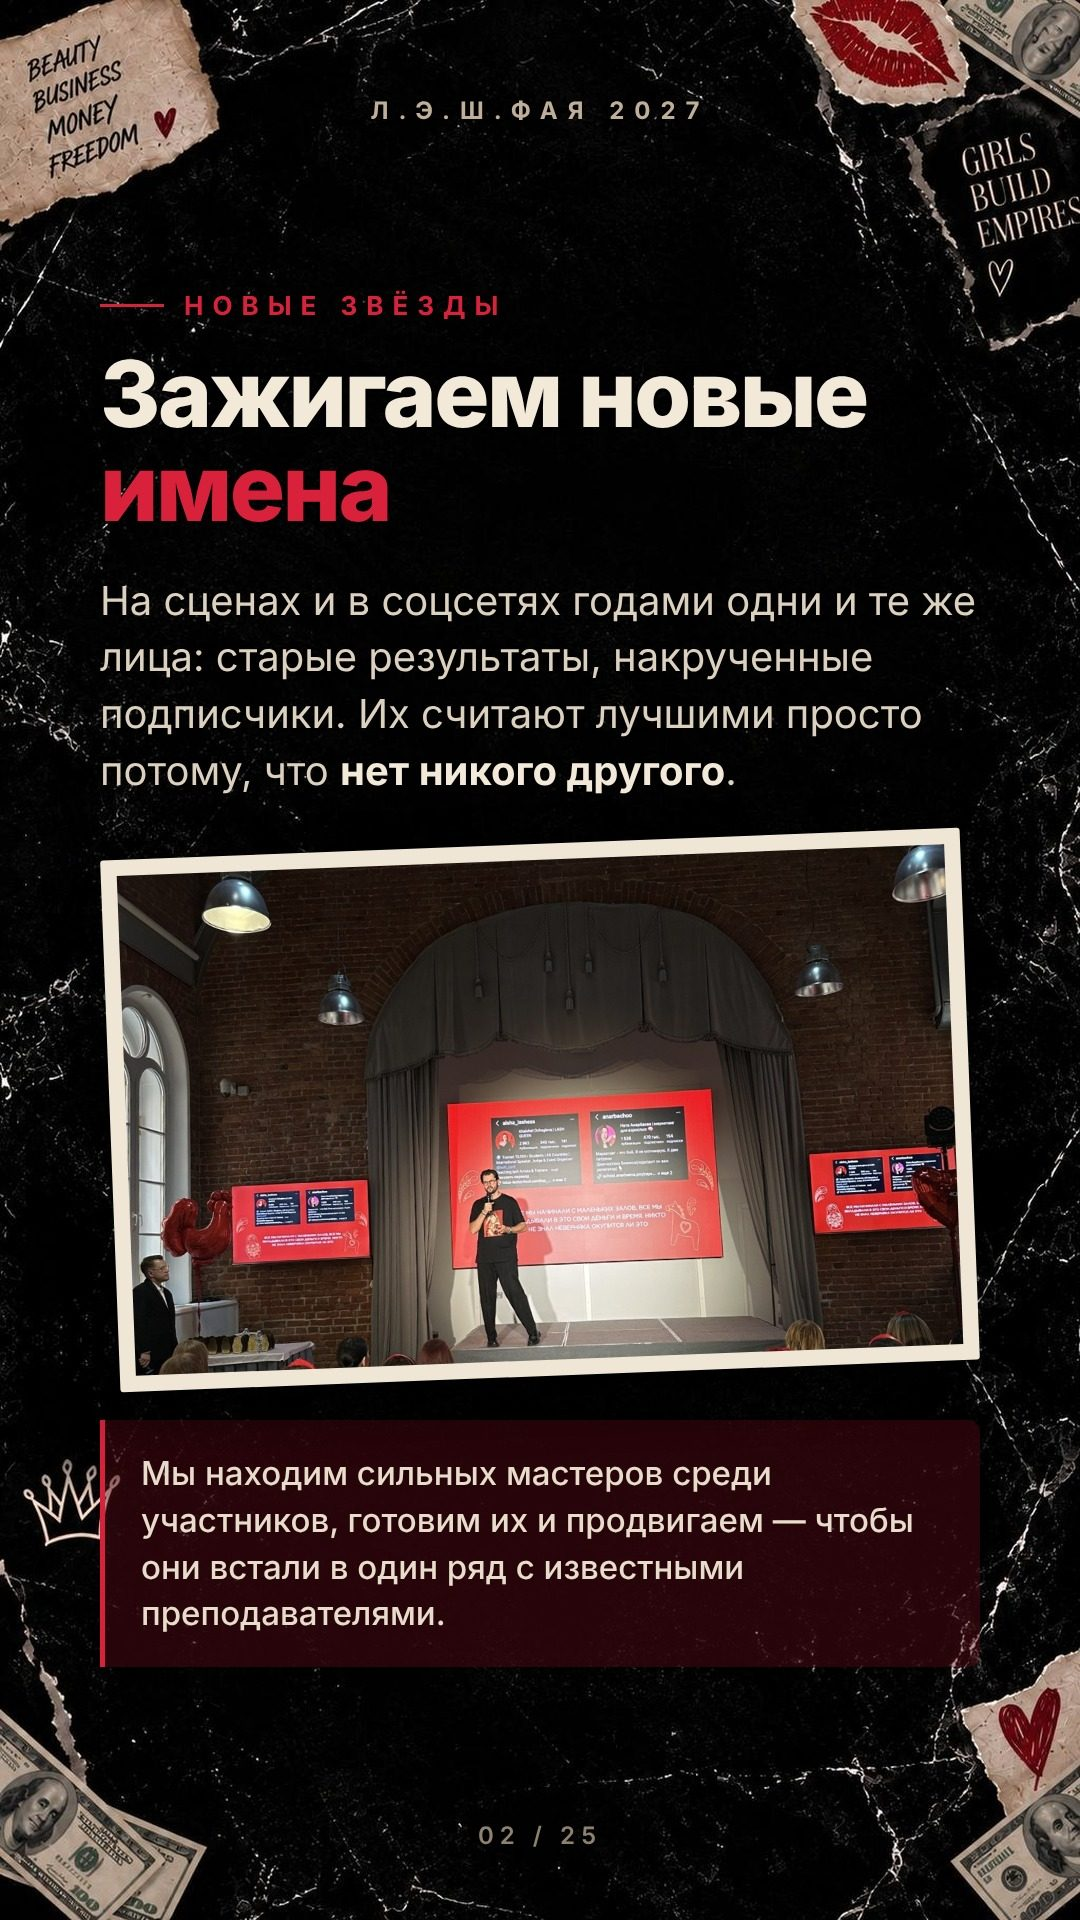
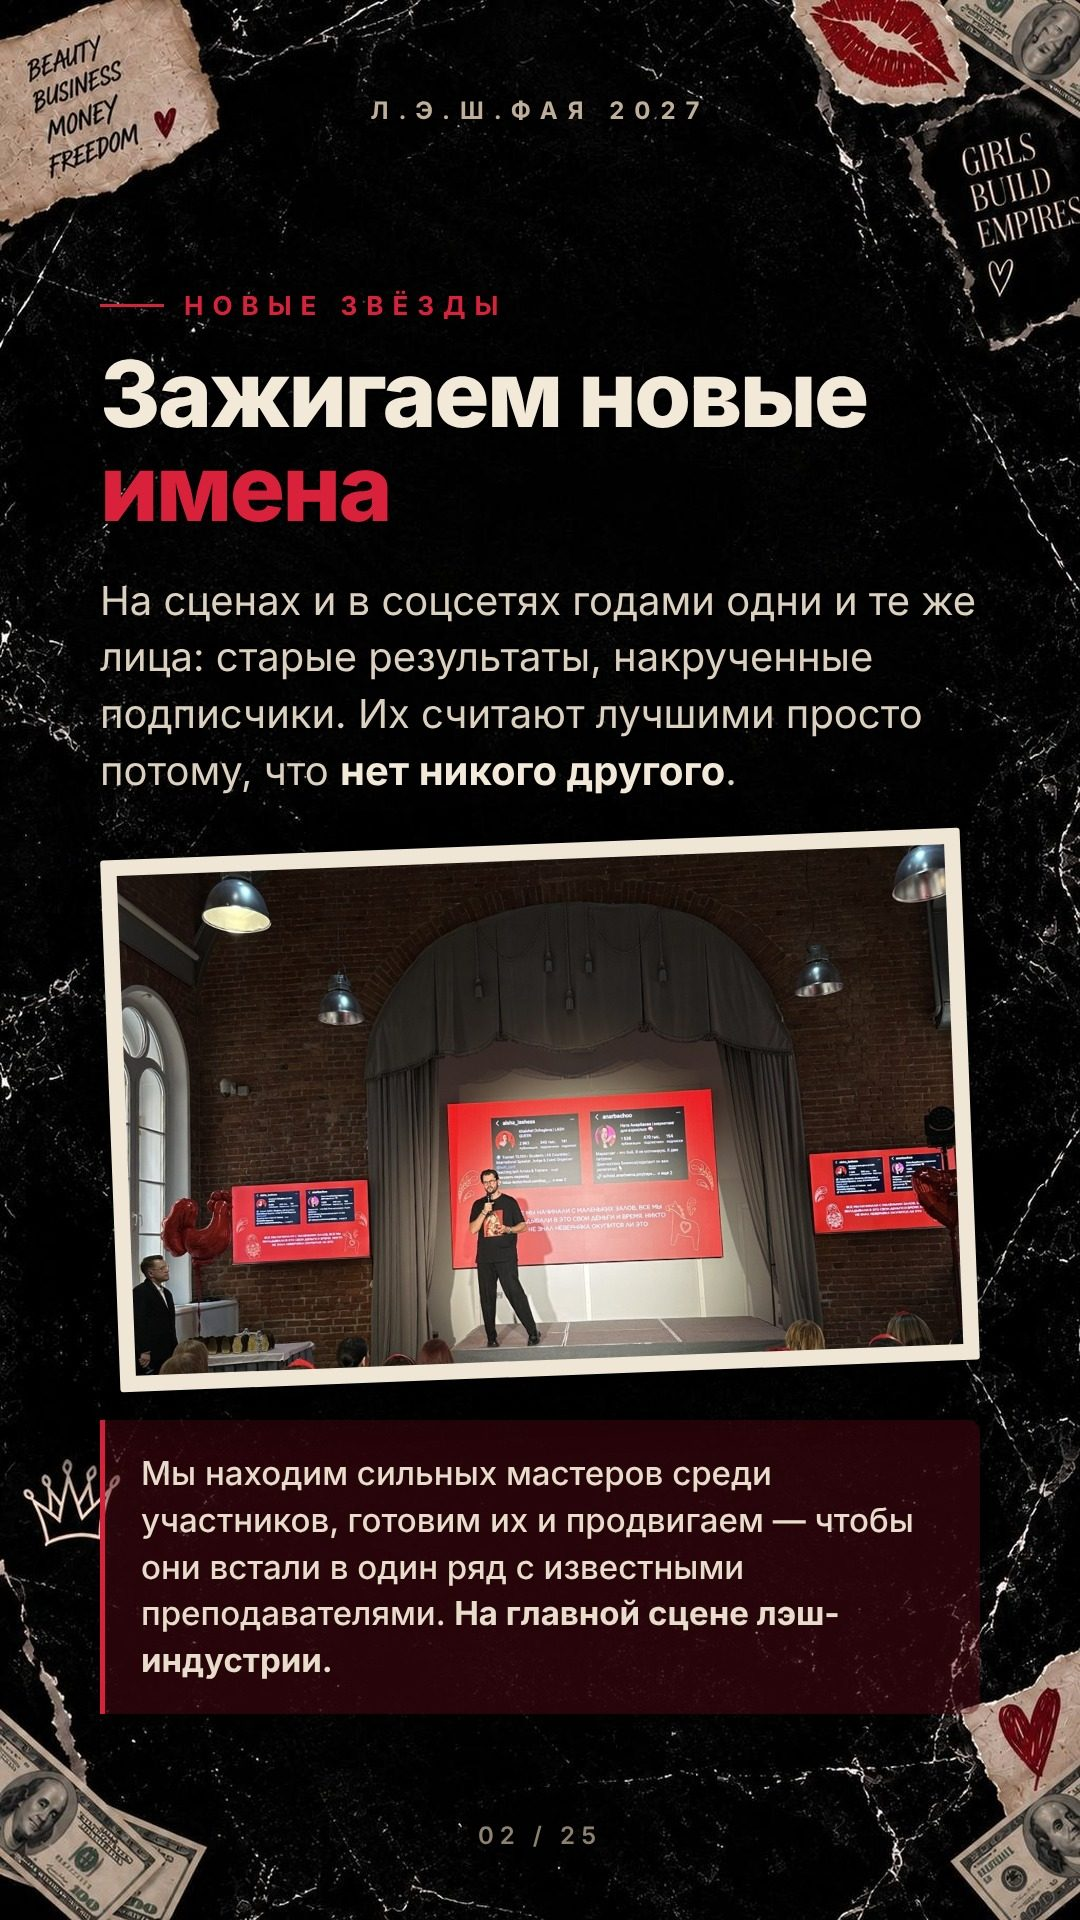
Акцент: крупнейшая в мире конференция по ресницам, охваты блогеров
Claude-Session: https://claude.ai/code/session_01KxHKsqFZP9q9nJcN93KArK

Changed region(s): [[0.0917, 0.8125, 0.9167, 0.9062]]

diff --git a/index.html b/index.html
@@ -3,10 +3,10 @@
 <meta charset="utf-8">
 <meta name="viewport" content="width=device-width,initial-scale=1,viewport-fit=cover">
 <title>ЛэшФая 2027 — предложение для спикеров</title>
-<meta name="description" content="Стань новой звездой лэш-индустрии: выступление на ЛэшФая 2027, 14–15 января, Москва.">
+<meta name="description" content="Стань новой звездой лэш-индустрии на крупнейшей в мире конференции по ресницам. ЛэшФая 2027, 14–15 января, Москва.">
 <meta property="og:title" content="ЛэшФая 2027 — предложение для спикеров">
 <meta property="og:description" content="Стань новой звездой лэш-индустрии. 14–15 января 2027, Москва.">
-<meta property="og:image" content="https://speaker-lash.vercel.app/og.jpg?v=1794306018">
+<meta property="og:image" content="https://speaker-lash.vercel.app/og.jpg?v=1794306102">
 <meta property="og:url" content="https://speaker-lash.vercel.app/">
 <meta property="og:type" content="website">
 <meta name="theme-color" content="#050404">
@@ -25,33 +25,33 @@ html{scroll-behavior:smooth}
 .ig{display:block;margin:0 16px 20px;padding:16px;border:1px solid rgba(243,233,216,.35);border-radius:14px;color:#F3E9D8;text-align:center;font:600 16px/1.2 -apple-system,Inter,Arial,sans-serif;text-decoration:none;background:#0e0a09}
 </style></head>
 <body><main>
-<a class="first" href="#s2"><img src="s/sp_01.jpg?v=1794306018" width="1080" height="1920" alt="Слайд 1"><span class="hint">Листайте вниз<i>↓</i></span></a>
-<span id="s2"></span><img src="s/sp_02.jpg?v=1794306018" width="1080" height="1920" alt="Слайд 2">
-<img src="s/sp_03.jpg?v=1794306018" width="1080" height="1920" alt="Слайд 3" loading="lazy">
-<img src="s/sp_04.jpg?v=1794306018" width="1080" height="1920" alt="Слайд 4" loading="lazy">
-<img src="s/sp_05.jpg?v=1794306018" width="1080" height="1920" alt="Слайд 5" loading="lazy">
+<a class="first" href="#s2"><img src="s/sp_01.jpg?v=1794306102" width="1080" height="1920" alt="Слайд 1"><span class="hint">Листайте вниз<i>↓</i></span></a>
+<span id="s2"></span><img src="s/sp_02.jpg?v=1794306102" width="1080" height="1920" alt="Слайд 2">
+<img src="s/sp_03.jpg?v=1794306102" width="1080" height="1920" alt="Слайд 3" loading="lazy">
+<img src="s/sp_04.jpg?v=1794306102" width="1080" height="1920" alt="Слайд 4" loading="lazy">
+<img src="s/sp_05.jpg?v=1794306102" width="1080" height="1920" alt="Слайд 5" loading="lazy">
 <a class="ig" href="https://www.instagram.com/lashfire_world/" target="_blank" rel="noopener">Открыть @lashfire_world в Instagram →</a>
-<img src="s/sp_06.jpg?v=1794306018" width="1080" height="1920" alt="Слайд 6" loading="lazy">
-<img src="s/sp_07.jpg?v=1794306018" width="1080" height="1920" alt="Слайд 7" loading="lazy">
-<img src="s/sp_08.jpg?v=1794306018" width="1080" height="1920" alt="Слайд 8" loading="lazy">
-<img src="s/sp_09.jpg?v=1794306018" width="1080" height="1920" alt="Слайд 9" loading="lazy">
-<img src="s/sp_10.jpg?v=1794306018" width="1080" height="1920" alt="Слайд 10" loading="lazy">
-<img src="s/sp_11.jpg?v=1794306018" width="1080" height="1920" alt="Слайд 11" loading="lazy">
-<img src="s/sp_12.jpg?v=1794306018" width="1080" height="1920" alt="Слайд 12" loading="lazy">
-<img src="s/sp_13.jpg?v=1794306018" width="1080" height="1920" alt="Слайд 13" loading="lazy">
-<img src="s/sp_14.jpg?v=1794306018" width="1080" height="1920" alt="Слайд 14" loading="lazy">
+<img src="s/sp_06.jpg?v=1794306102" width="1080" height="1920" alt="Слайд 6" loading="lazy">
+<img src="s/sp_07.jpg?v=1794306102" width="1080" height="1920" alt="Слайд 7" loading="lazy">
+<img src="s/sp_08.jpg?v=1794306102" width="1080" height="1920" alt="Слайд 8" loading="lazy">
+<img src="s/sp_09.jpg?v=1794306102" width="1080" height="1920" alt="Слайд 9" loading="lazy">
+<img src="s/sp_10.jpg?v=1794306102" width="1080" height="1920" alt="Слайд 10" loading="lazy">
+<img src="s/sp_11.jpg?v=1794306102" width="1080" height="1920" alt="Слайд 11" loading="lazy">
+<img src="s/sp_12.jpg?v=1794306102" width="1080" height="1920" alt="Слайд 12" loading="lazy">
+<img src="s/sp_13.jpg?v=1794306102" width="1080" height="1920" alt="Слайд 13" loading="lazy">
+<img src="s/sp_14.jpg?v=1794306102" width="1080" height="1920" alt="Слайд 14" loading="lazy">
 <a class="ig" href="https://www.instagram.com/lashfire_world/" target="_blank" rel="noopener">Открыть @lashfire_world в Instagram →</a>
-<img src="s/sp_15.jpg?v=1794306018" width="1080" height="1920" alt="Слайд 15" loading="lazy">
-<img src="s/sp_16.jpg?v=1794306018" width="1080" height="1920" alt="Слайд 16" loading="lazy">
-<img src="s/sp_17.jpg?v=1794306018" width="1080" height="1920" alt="Слайд 17" loading="lazy">
-<img src="s/sp_18.jpg?v=1794306018" width="1080" height="1920" alt="Слайд 18" loading="lazy">
-<img src="s/sp_19.jpg?v=1794306018" width="1080" height="1920" alt="Слайд 19" loading="lazy">
-<img src="s/sp_20.jpg?v=1794306018" width="1080" height="1920" alt="Слайд 20" loading="lazy">
-<img src="s/sp_21.jpg?v=1794306018" width="1080" height="1920" alt="Слайд 21" loading="lazy">
-<img src="s/sp_22.jpg?v=1794306018" width="1080" height="1920" alt="Слайд 22" loading="lazy">
-<img src="s/sp_23.jpg?v=1794306018" width="1080" height="1920" alt="Слайд 23" loading="lazy">
-<img src="s/sp_24.jpg?v=1794306018" width="1080" height="1920" alt="Слайд 24" loading="lazy">
-<img src="s/sp_25.jpg?v=1794306018" width="1080" height="1920" alt="Слайд 25" loading="lazy">
+<img src="s/sp_15.jpg?v=1794306102" width="1080" height="1920" alt="Слайд 15" loading="lazy">
+<img src="s/sp_16.jpg?v=1794306102" width="1080" height="1920" alt="Слайд 16" loading="lazy">
+<img src="s/sp_17.jpg?v=1794306102" width="1080" height="1920" alt="Слайд 17" loading="lazy">
+<img src="s/sp_18.jpg?v=1794306102" width="1080" height="1920" alt="Слайд 18" loading="lazy">
+<img src="s/sp_19.jpg?v=1794306102" width="1080" height="1920" alt="Слайд 19" loading="lazy">
+<img src="s/sp_20.jpg?v=1794306102" width="1080" height="1920" alt="Слайд 20" loading="lazy">
+<img src="s/sp_21.jpg?v=1794306102" width="1080" height="1920" alt="Слайд 21" loading="lazy">
+<img src="s/sp_22.jpg?v=1794306102" width="1080" height="1920" alt="Слайд 22" loading="lazy">
+<img src="s/sp_23.jpg?v=1794306102" width="1080" height="1920" alt="Слайд 23" loading="lazy">
+<img src="s/sp_24.jpg?v=1794306102" width="1080" height="1920" alt="Слайд 24" loading="lazy">
+<img src="s/sp_25.jpg?v=1794306102" width="1080" height="1920" alt="Слайд 25" loading="lazy">
 <a class="ig" style="margin-top:24px" href="https://www.instagram.com/lashfire_world/" target="_blank" rel="noopener">Страница конференции: @lashfire_world →</a>
 <a class="cta" style="margin-top:12px" href="tel:+79234444906">Позвонить Дмитрию: +7 923 444-49-06</a>
 </main></body></html>
